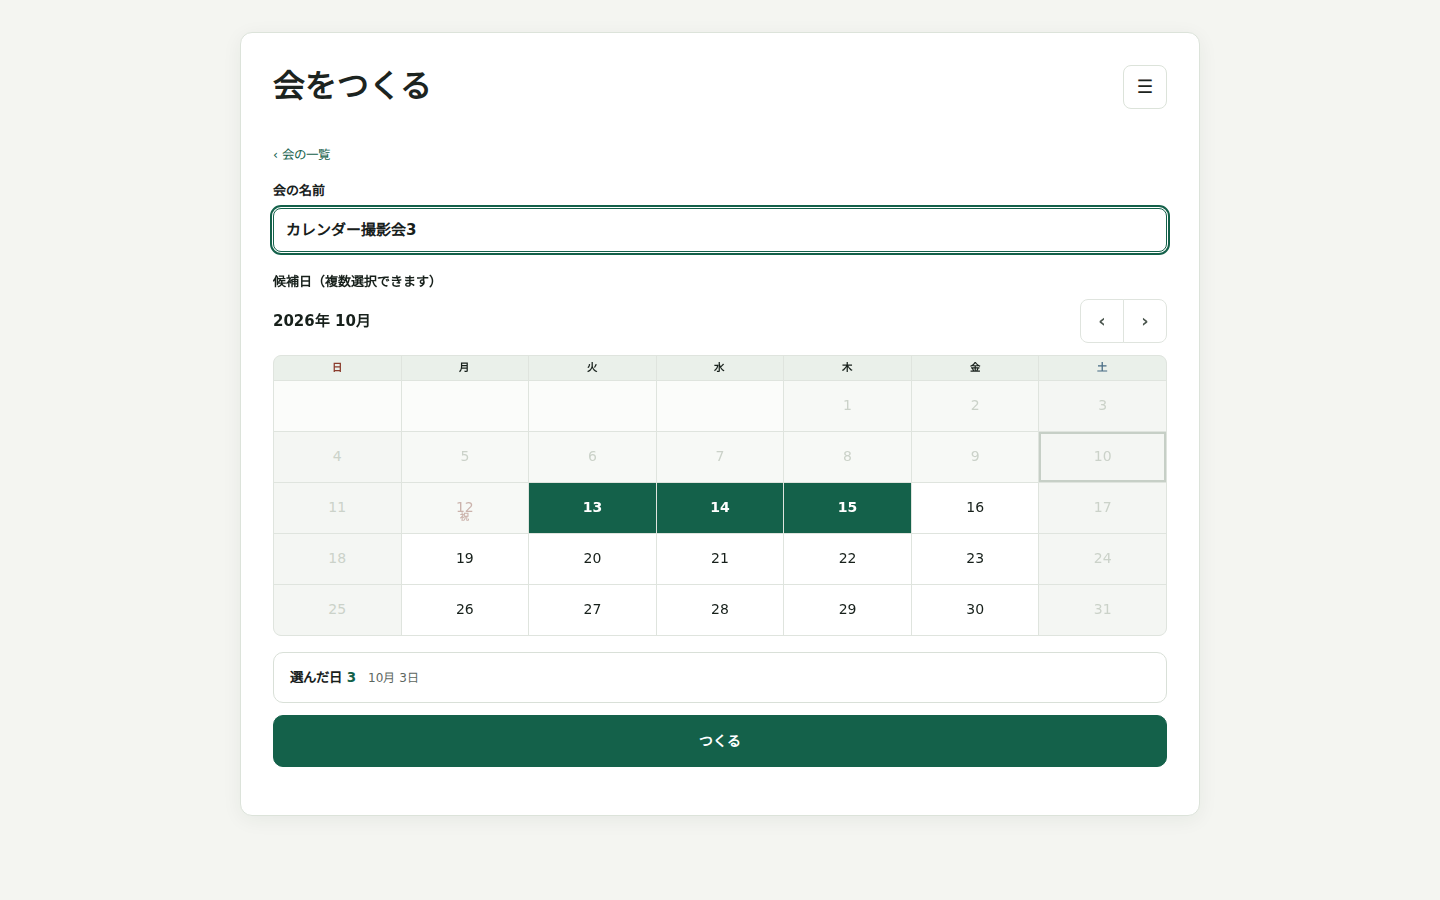
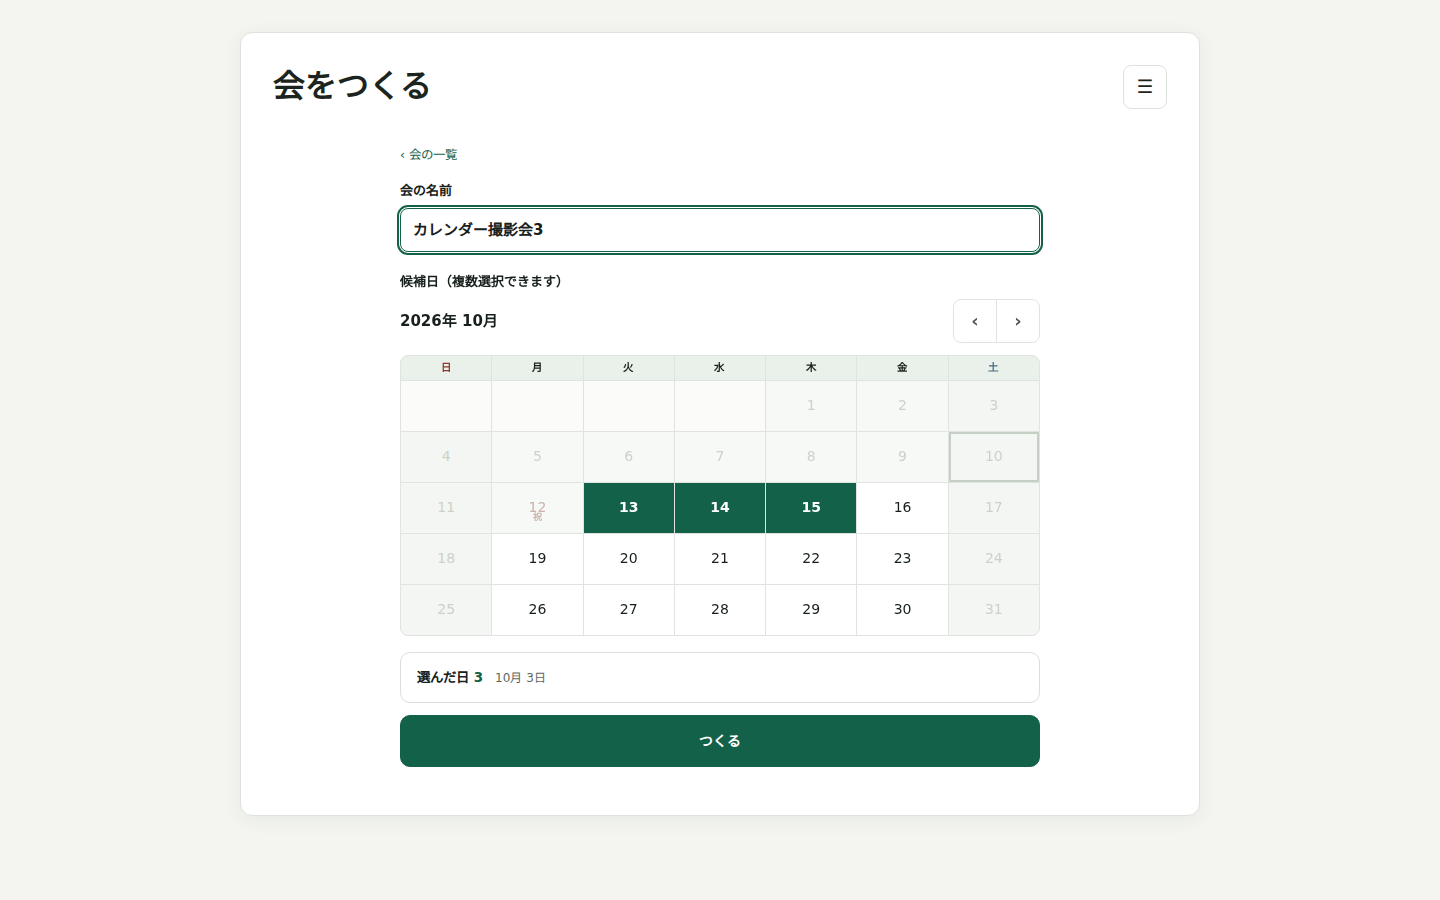
KEN-51: 列を640px・小窓を600pxに板の数値へ揃える（監査 M-1・M-2）

diff --git a/projects/dining-radar/src/dining_radar/gathering/static/dining_radar/gathering/organizer.css b/projects/dining-radar/src/dining_radar/gathering/static/dining_radar/gathering/organizer.css
@@ -592,6 +592,12 @@ body:has(.gth-dash--finalized) .app-shell:has(#gathering-app) {
    "ほかの月にも N日" badge with a joined pair of arrows at the right, and
    the summary becomes a full-width band over a full-width "つくる". */
 @media (min-width: 64rem) {
+  /* The board's column is 640px, centred; the white shell around it is wider. */
+  .gathering-create-form {
+    width: 100%;
+    max-width: 40rem;
+    margin-inline: auto;
+  }
   .gathering-create-form .gth-cal-grid {
     width: 100%;
   }
@@ -667,12 +673,12 @@ body:has(.gth-dash--finalized) .app-shell:has(#gathering-app) {
 }
 @media (min-width: 64rem) {
   /* Board b2-q4r3/N1-Pc1 (KEN-51): a small window sized to its content
-     (about 450px wide), centred both ways -- not a tall sheet stretched to
+     (600px wide), centred both ways -- not a tall sheet stretched to
      the viewport. inset:0 + margin:auto + height:fit-content centres a
      fixed box that is only as tall as its rows. */
   .gathering-review-dialog {
     inset: 0;
-    width: min(28.125rem, calc(100vw - 2rem));
+    width: min(37.5rem, calc(100vw - 2rem));
     height: fit-content;
     margin: auto;
     max-height: 92dvh;
@@ -681,6 +687,13 @@ body:has(.gth-dash--finalized) .app-shell:has(#gathering-app) {
   }
   .gathering-review-grip {
     display: none;
+  }
+  .gathering-review-footer {
+    justify-content: flex-end;
+  }
+  .gathering-review-dialog .gathering-review-footer .gathering-btn {
+    flex: 0 0 auto;
+    padding: 0 1.25rem;
   }
 }
 .gathering-review-dialog:focus-visible,

diff --git a/projects/dining-radar/src/dining_radar/gathering/templates/gathering/organizer_gathering_create.html b/projects/dining-radar/src/dining_radar/gathering/templates/gathering/organizer_gathering_create.html
@@ -9,7 +9,7 @@
       organizer.css change. Shared with organizer_gathering_list.html and
       organizer_dashboard.html (2026-09-04 visual-language pass).
     {% endcomment %}
-    <link rel="stylesheet" href="{% static 'dining_radar/gathering/organizer.css' %}?v=20261009-ken51-create-pc-b2board">
+    <link rel="stylesheet" href="{% static 'dining_radar/gathering/organizer.css' %}?v=20261009c-ken51-create-pc-b2board">
 {% endblock %}
 
 {% block content %}
@@ -50,5 +50,5 @@
       vendored script/stylesheet of its own (see gathering_create.js's own
       buildCandidateDateCalendar).
     {% endcomment %}
-    <script src="{% static 'dining_radar/gathering/gathering_create.js' %}?v=20261009-ken51-create-pc-b2board"></script>
+    <script src="{% static 'dining_radar/gathering/gathering_create.js' %}?v=20261009c-ken51-create-pc-b2board"></script>
 {% endblock %}

diff --git a/projects/dining-radar/reviews/KEN-51-audit.md b/projects/dining-radar/reviews/KEN-51-audit.md
@@ -1,0 +1,71 @@
+# KEN-51 実装の独立監査（reviewer）
+
+対象: `git diff origin/main...HEAD` のコード3点（`organizer.css`、`gathering_create.js`、`organizer_gathering_create.html` のキャッシュ版）。
+突き合わせ先: 板 b2-q4r3 の N1-Pc1／N1-Pc2、監査 A-4（`audit-board-vs-implementation-2026-10-08.md`）、`reviews/KEN-51-capture/*.png`、契約 `organizerGatheringCreate`。
+実装者の説明・コミットメッセージは判断材料にせず、差分と画像と板のHTMLの数値だけを読んだ。コードは書き換えていない。
+
+## 結論
+
+**Critical 0件 / Major 2件 / Minor 4件。** Major が残るので、板どおりとは言い切れない（幅の2点）。契約の Must と L5 の結果は壊れていない。
+
+## 指摘一覧
+
+### Critical
+なし。
+
+### Major
+- **M-1 小窓の幅が板と違う（450px。板は600px）。**
+  板 N1-Pc1／Pc2 の小窓は `width: 600px`、角丸16px、足は右寄せ（`justify-content: flex-end`）。
+  実装は `width: min(28.125rem, …)`＝450px（`organizer.css` の `.gathering-review-dialog`）。撮影 `after-review_dialog-pc-1440.png` の小窓は約450px（495〜945）。板の画像（`board-N1-Pc1.png`）の小窓は約600px（368〜968）で、板の方が3割ほど広い。
+  450px は監査 A-4 の文面（「約450px」）に合わせた値だが、板の数値と食い違う。A-4 の記述が板を読み違えていた可能性が高い。高さは中身に合わせてあり（約385px、行3つ）、縦長の空きは直っている。
+  直し方: 幅を 37.5rem（600px）にするか、450px を人間が選ぶなら板か A-4 を直す。どちらかに揃える。
+- **M-2 画面の列の幅が板と違う（約894px。板は640px）。**
+  板は幅640pxの1本の列（`width: 640px; align-self: center`）に名前・カレンダー・帯・つくるが入る。
+  実装は白いカードの内側いっぱい（約894px、撮影 273〜1167）にカレンダーを広げた。「全幅」にはなったが列の幅は板の約1.4倍で、日付1マスが板の約91pxに対し実装は約128px。
+  カレンダーが列いっぱい・帯が列幅・つくるが列幅、という並びは板どおり。幅だけが違う。
+  直し方: 作成画面のカードの幅を640pxに絞る、またはこの差を意図的な差として記録する。
+
+### Minor
+- **m-1 小窓の足の並び。** 板は「カレンダーにもどる｜この N日でつくる」が中身の幅で右寄せ。実装は2つが同じ幅で小窓の全幅に伸びる（`.gathering-review-footer .gathering-btn { flex: 1 1 0 }` はスマホ用のまま）。小窓の幅を広げる（M-1）と、さらに間延びする。
+- **m-2 小窓の「次の月」。** 板は「10月 ›」と月名つきの枠ボタン。実装は小さな矢印だけ（`›` 薄い灰色）。契約の testid・月送りは守られているが、見た目は板と違う。これは今回の差分の範囲外（以前からの差）。
+- **m-3 見出しの「ほかの月にも N日」の帯。** 撮影の状態（10月だけ選択）では帯が出ないので、帯の並び替え（`order`、矢印の連結の `margin-left: calc(-0.5rem - 1px)`）が板どおりかは撮影からは確かめられない。判断できない。別の月にも選んだ状態の撮影を1枚足すとよい。
+- **m-4 スマホの「選んだ日」の文言。** `gathering_create.js` の「N日」は幅で分けていないので、スマホ幅の固定の帯にも「10月 3日」と出る（以前は「10月 3」）。板のスマホ（N1-Sp1）の帯は「6か月」で、どちらにしても板とは別物。回帰ではなく、板に近づく向きの小さな変化。ただし「スマホは変わらない」とは言えない点を記録する。
+
+## 観点ごとの確認
+
+### (1) 板と撮影の突き合わせ（PC幅）
+| 項目 | 板 | 実装（撮影） | 判定 |
+|---|---|---|---|
+| カレンダーが列いっぱい | 640px列に全幅 | 894px列に全幅 | 並びは○、列幅は M-2 |
+| 日付の見出し行 | 日〜土が各マスの幅で読める | 同じ（詰まりは直った） | ○ |
+| 月の見出し行 | 月名＋帯＋連結した矢印が右 | 月名＋連結した矢印が右（帯は撮影に出ない） | ○（帯は m-3） |
+| 帯「選んだ日 N 月別」 | 白い枠、列幅 | 白い枠、列幅。「選んだ日 3　10月 3日」 | ○ |
+| つくる | 列幅の大きなボタン | 列幅、高さ52px | ○ |
+| 小窓の幅 | 600px | 約450px | M-1 |
+| 小窓の高さ | 中身に合わせる | 中身に合わせる（約385px）、握り棒なし、縦横中央 | ○ |
+
+### (2) スマホ幅（<64rem）
+- 追加した CSS は全て `@media (min-width: 64rem)` の中。既存のスマホ側は `max-width: 63.999rem`（`organizer.css` 約570行）で、境界に隙間も重なりもない。
+- 小窓の `display: none`（握り棒）も PC の `@media` 内で、基本の `.gathering-review-grip` は `display` を持たないので、後ろの規則に負けず、スマホでは握り棒が残る。
+- JS の「N日」は幅を問わず変わる（m-4）。レイアウトは変えない。
+- スマホ幅の撮影（390×844）は今回の添付に無い。CSS の読みだけで「変わっていない」と判断した。撮影での確認はしていない。
+
+### (3) 契約の Must
+- `data-testid`（`gathering-create-review-open`／`-dialog`／`-submit`／`-cancel`／`-month-previous`／`-month-next`、カレンダーの月送り、名前入力）に変更なし。差分は CSS と文言の1か所だけ。
+- `review-open` の disabledState（名前なし・日なしで無効）は JS を触っていないので維持。
+- 契約は「選んだ日の件数の文言は固定しない」（`review-open` の requiredOutcome）ので、「N日」は契約違反ではない。
+- 月送りの順序の入れ替えは CSS の `order` だけで、DOM の順は変わらない。キーボードの順も変わらない。
+
+### (4) L5（layout sanity）への影響
+- `tests/ui_invariants/test_layout_sanity.py::test_gathering_create_and_confirm_dialog` は `xfail(strict=True)`。今回の差分の後も xfail のまま。
+- `--runxfail` で `origin/main` と今回の差分を比べた。指摘は同じ3件で、増減なし。
+  - phone-360×740: 小窓の `review-month-next` が小窓の外へはみ出す（4.はみ出し）
+  - desktop-1440×900: `gathering-create-cancel` のホバーの見分けやすさ 1.41
+  - desktop-1440×900: 日付セルのホバーの見分けやすさ 1.46
+- 新しい指摘なし。ただし、この xfail は理由文に書かれた古い原因（≡の0px間隔）のままで、実際の指摘とずれている。別の件として直した方がよい（本チケットの範囲外）。
+- `tests/test_static_assets.py` と `tests/test_template_syntax.py` は通過（54件）。キャッシュ版（`?v=20261009-ken51-create-pc-b2board`）の更新も済み。
+- PC の確認小窓にも効く検査は、1440×900 だけ。幅1024〜1280 の撮影は無い（境界 64rem 付近は未確認）。
+
+## 判断できなかったこと
+- 「ほかの月にも N日」の帯の並び（m-3）。撮影に出ない。
+- 64rem 直上（1024px 前後）で、矢印と月名と帯が1行に収まるか（`flex-wrap: nowrap` にしたため）。撮影・検査が無い。
